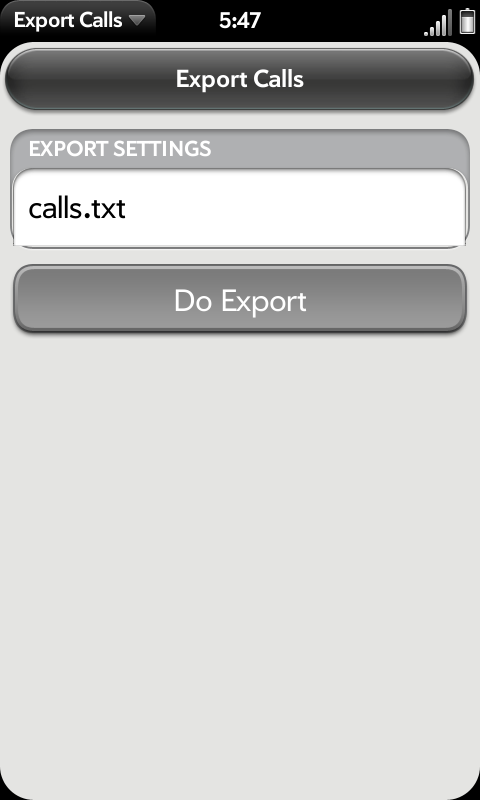
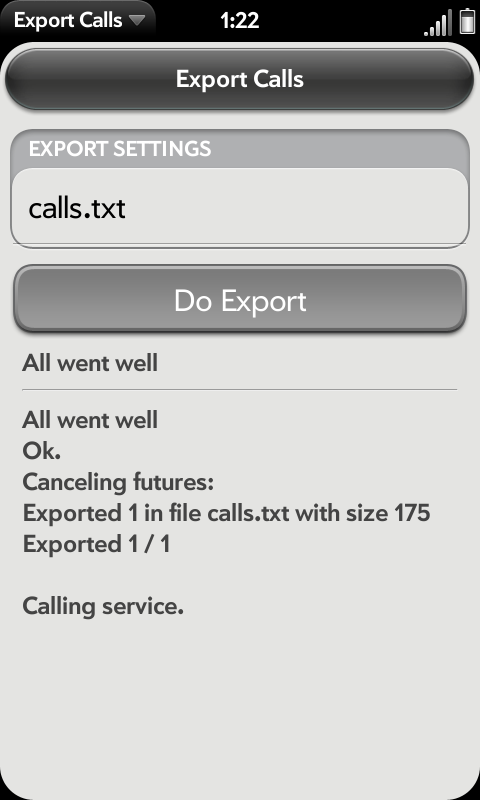
* renamed patch to avoid name conflict with other Export*** apps
* changed wallpaper to include progress info

diff --git a/srv/assistants/doExportAssitant.js b/srv/assistants/doExportAssitant.js
@@ -55,7 +55,7 @@ doExportAssitant.prototype.run = function (outerFuture, subscription) {
 					stats.calls += 1;
 					fileStream.write(line);
 				}
-				//only the first count tells me how many messages there are... 
+				//only the first count tells me how many calls there are... 
 				if (!stats.count) {
 					stats.count = r.count;
 				}
